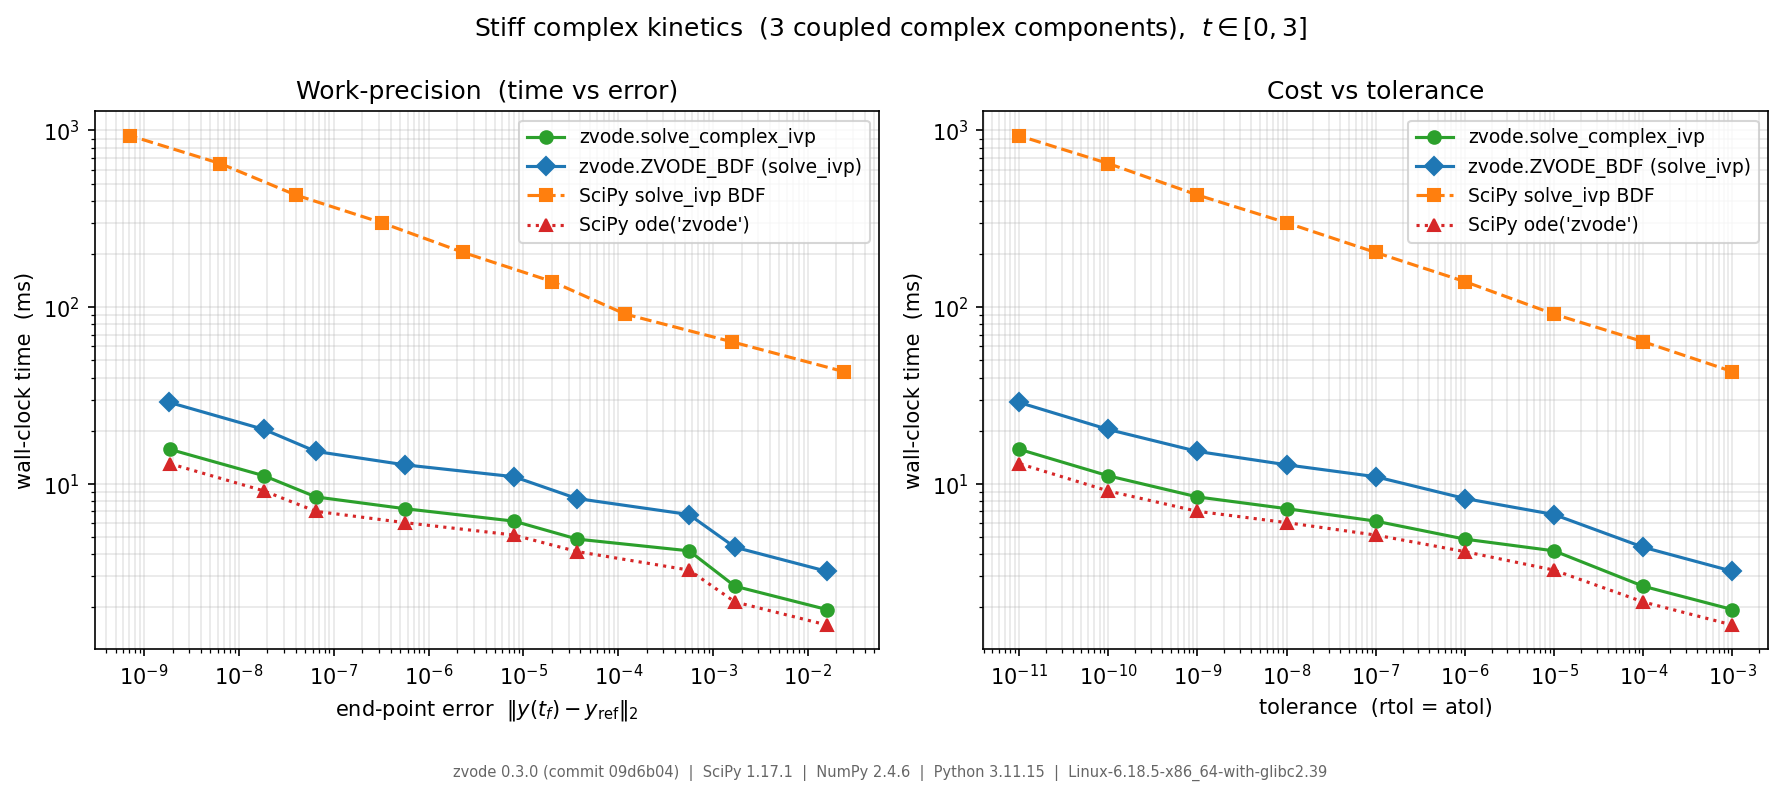
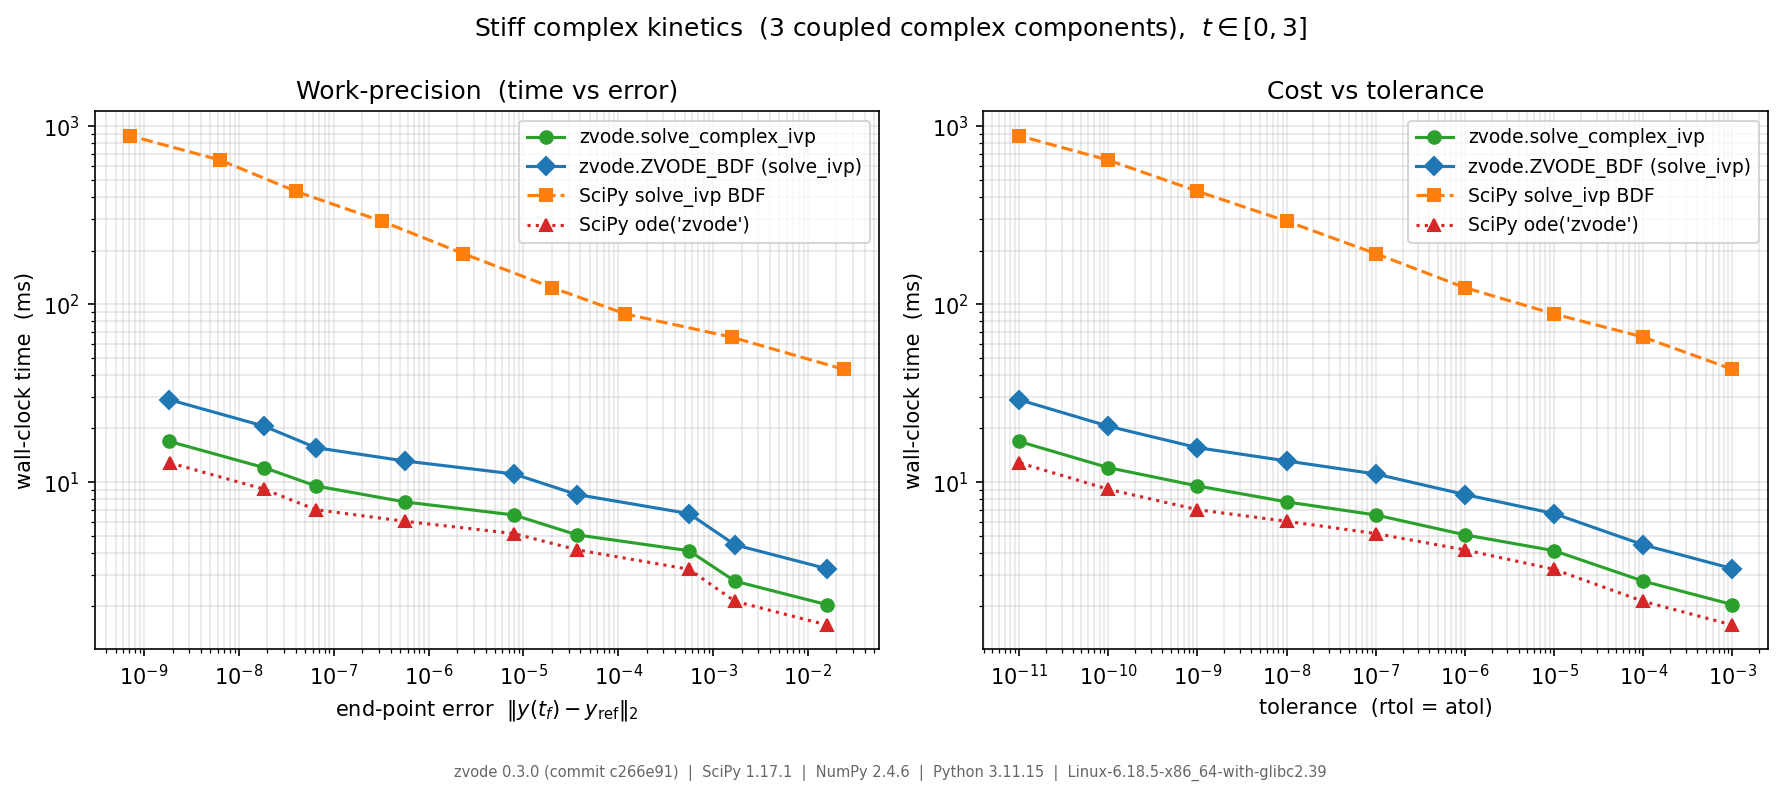
docs: tighten work-precision benchmark setup
- Make output mode consistent: solve_complex_ivp and both solve_ivp paths
  collect the full trajectory (solve_ivp's cheapest mode; t_eval endpoint
  is slower due to a per-step searchsorted), with ode("zvode") in its
  single-shot endpoint mode.  The trajectory paths stay directly comparable
  since collection is nearly free (<2%, stored in C).
- Cross-check the tight-tolerance reference against SciPy's independent BDF
  so it is not biased toward the ZVODE-backed solvers.
- Silence the harmless 'vectorized' UserWarning from ZVODE_BDF.
- Refresh the docs ratios, document the output-mode choice, and explain that
  the small gap to ode() is per-callback Python overhead, not output cost.
- Keep the benchmarks page out of the toctree for now (marked :orphan:)
  pending local review.

diff --git a/docs/bench_work_precision.py b/docs/bench_work_precision.py
@@ -51,6 +51,7 @@ import importlib.metadata
 import platform
 import subprocess
 import timeit
+import warnings
 from pathlib import Path
 
 import matplotlib.pyplot as plt
@@ -59,6 +60,10 @@ import scipy
 from scipy.integrate import ode, solve_ivp
 
 from zvode import ZVODE_BDF, solve_complex_ivp
+
+# solve_ivp always forwards vectorized= to the OdeSolver; ZVODE_BDF ignores it
+# and warns once per call.  It is harmless here and only clutters the output.
+warnings.filterwarnings("ignore", message=".*vectorized.*")
 
 # ---------------------------------------------------------------------------
 # Problem definition
@@ -85,12 +90,25 @@ def rhs(t, y):
 
 # ---------------------------------------------------------------------------
 # Solver drivers — each returns the state vector at t = tf
+#
+# Output mode is each interface's idiomatic, lowest-overhead one:
+#
+#   * solve_complex_ivp and both solve_ivp drivers collect the full trajectory
+#     (every accepted step).  This is solve_ivp's standard mode, and it is the
+#     *cheapest* one for it: forcing endpoint-only via t_eval=(tf,) is actually
+#     slower, because solve_ivp then runs an np.searchsorted per step.
+#     solve_complex_ivp collects in C, so trajectory vs. endpoint-only makes
+#     essentially no difference.  The three lines therefore have matching
+#     output semantics and are directly comparable.
+#
+#   * ode("zvode") integrates straight to tf in a single Fortran call.  That is
+#     its natural low-overhead mode; making it collect a trajectory would
+#     require a manual Python step loop, defeating its role as the bare-core
+#     reference.  Its per-step Fortran storage is not exposed to Python.
 # ---------------------------------------------------------------------------
 def run_solve_complex_ivp(tol):
-    sol = solve_complex_ivp(
-        rhs, (t0, tf), y0, method="BDF", rtol=tol, atol=tol, save_steps=False
-    )
-    return sol.y
+    sol = solve_complex_ivp(rhs, (t0, tf), y0, method="BDF", rtol=tol, atol=tol)
+    return sol.y[:, -1]
 
 
 def run_zvode_bdf(tol):
@@ -130,6 +148,11 @@ CONFIGS = [
 ref = solve_ivp(rhs, (t0, tf), y0, method=ZVODE_BDF, rtol=1e-12, atol=1e-13)
 assert ref.success, ref.message
 u_ref = ref.y[:, -1]
+
+# Cross-check with SciPy's *independent* BDF so the reference is not biased
+# toward the ZVODE-backed solvers (which share the Fortran core).
+ref_scipy = solve_ivp(rhs, (t0, tf), y0, method="BDF", rtol=1e-12, atol=1e-13)
+assert np.linalg.norm(ref_scipy.y[:, -1] - u_ref) < 1e-9, "reference solvers disagree"
 
 # ---------------------------------------------------------------------------
 # Tolerance sweep

diff --git a/docs/benchmarks.rst b/docs/benchmarks.rst
@@ -1,3 +1,5 @@
+:orphan:
+
 .. _benchmarks:
 
 Benchmarks — work-precision diagram
@@ -94,16 +96,25 @@ wall-clock time across the tolerance sweep, relative to the classic
    * - ``zvode.solve_complex_ivp``
      - ~1.2×
    * - ``zvode.ZVODE_BDF`` (``solve_ivp``)
-     - ~2.1×
+     - ~2×
    * - ``scipy.integrate.solve_ivp("BDF")``
-     - ~40×
+     - ~35×
 
 Takeaways:
 
 - ``zvode.solve_complex_ivp`` runs within ~20 % of the bare classic Fortran
   interface and produces an *identical* error curve to ``ode("zvode")``
   (same core, same steps) — a good cross-check that the thin wrapper adds cost
-  but not numerical change.
+  but not numerical change.  That ~20 % is almost entirely per-call-back cost:
+  for a plain-Python right-hand side, ``solve_complex_ivp`` routes each
+  evaluation through one extra Python frame (to adapt ``f(t, y) -> array`` to
+  ZVODE's in-place convention) where ``ode`` calls ``f`` directly from C and
+  copies the result back with a ``memcpy``.  Collecting the full output
+  trajectory, by contrast, costs under 2 % — ``solve_complex_ivp`` stores it in
+  C, not in Python lists.  With a compiled (numba/ctypes) right-hand side the
+  Python frame disappears and this path becomes *several times faster* than
+  ``ode``, since the step loop *and* the right-hand side then run without the
+  interpreter.
 - The scipy-compatible ``ZVODE_BDF`` ``OdeSolver`` pays for a Python step loop
   (one Python round-trip per accepted step) yet still beats SciPy's
   pure-Python ``BDF`` by roughly an order of magnitude on this small system.
@@ -115,6 +126,16 @@ These ratios are interface overhead and are most pronounced for small systems;
 as the system size grows the linear-algebra cost rises and the relative
 overhead of any Python wrapper shrinks.
 
+.. note::
+
+   **Output mode.**  ``solve_complex_ivp`` and both ``solve_ivp`` paths collect
+   the full step trajectory — ``solve_ivp``'s standard mode, and its cheapest
+   (forcing endpoint-only with ``t_eval=(tf,)`` is *slower*, as ``solve_ivp``
+   then runs an ``np.searchsorted`` per step).  ``ode("zvode")`` integrates
+   straight to ``tf`` in a single call, its natural low-overhead mode.  Because
+   collecting the trajectory is nearly free here, the three trajectory paths
+   stay directly comparable to the single-shot baseline.
+
 Reproducing
 -----------
 
@@ -124,14 +145,11 @@ root (needs ``scipy`` and ``matplotlib``)::
     python docs/bench_work_precision.py
 
 It prints the per-tolerance timings and a versions/commit line, and writes
-``docs/work_precision.png``.  The reference run above was produced with:
-
-- **zvode** 0.3.0 (commit ``09d6b04``)
-- **SciPy** 1.17.1, **NumPy** 2.4.6, **Python** 3.11
-- Linux x86-64
-
-Re-run it on your own machine to get numbers for your platform — the figure is
-stamped with whatever versions and commit produced it.
+``docs/work_precision.png``.  The exact zvode commit and the SciPy / NumPy /
+Python versions that produced any given figure are stamped along its bottom
+edge, so the diagram is self-describing.  Re-run it on your own machine to get
+numbers for your platform; absolute timings are machine-dependent, but the
+ordering of the four paths is stable.
 
 .. literalinclude:: bench_work_precision.py
    :language: python

diff --git a/docs/index.md b/docs/index.md
@@ -157,13 +157,6 @@ how-to-compiled-callbacks
 
 :::{toctree}
 :maxdepth: 1
-:caption: Benchmarks
-
-benchmarks
-:::
-
-:::{toctree}
-:maxdepth: 1
 :caption: Internals
 
 compiled-callbacks-design
